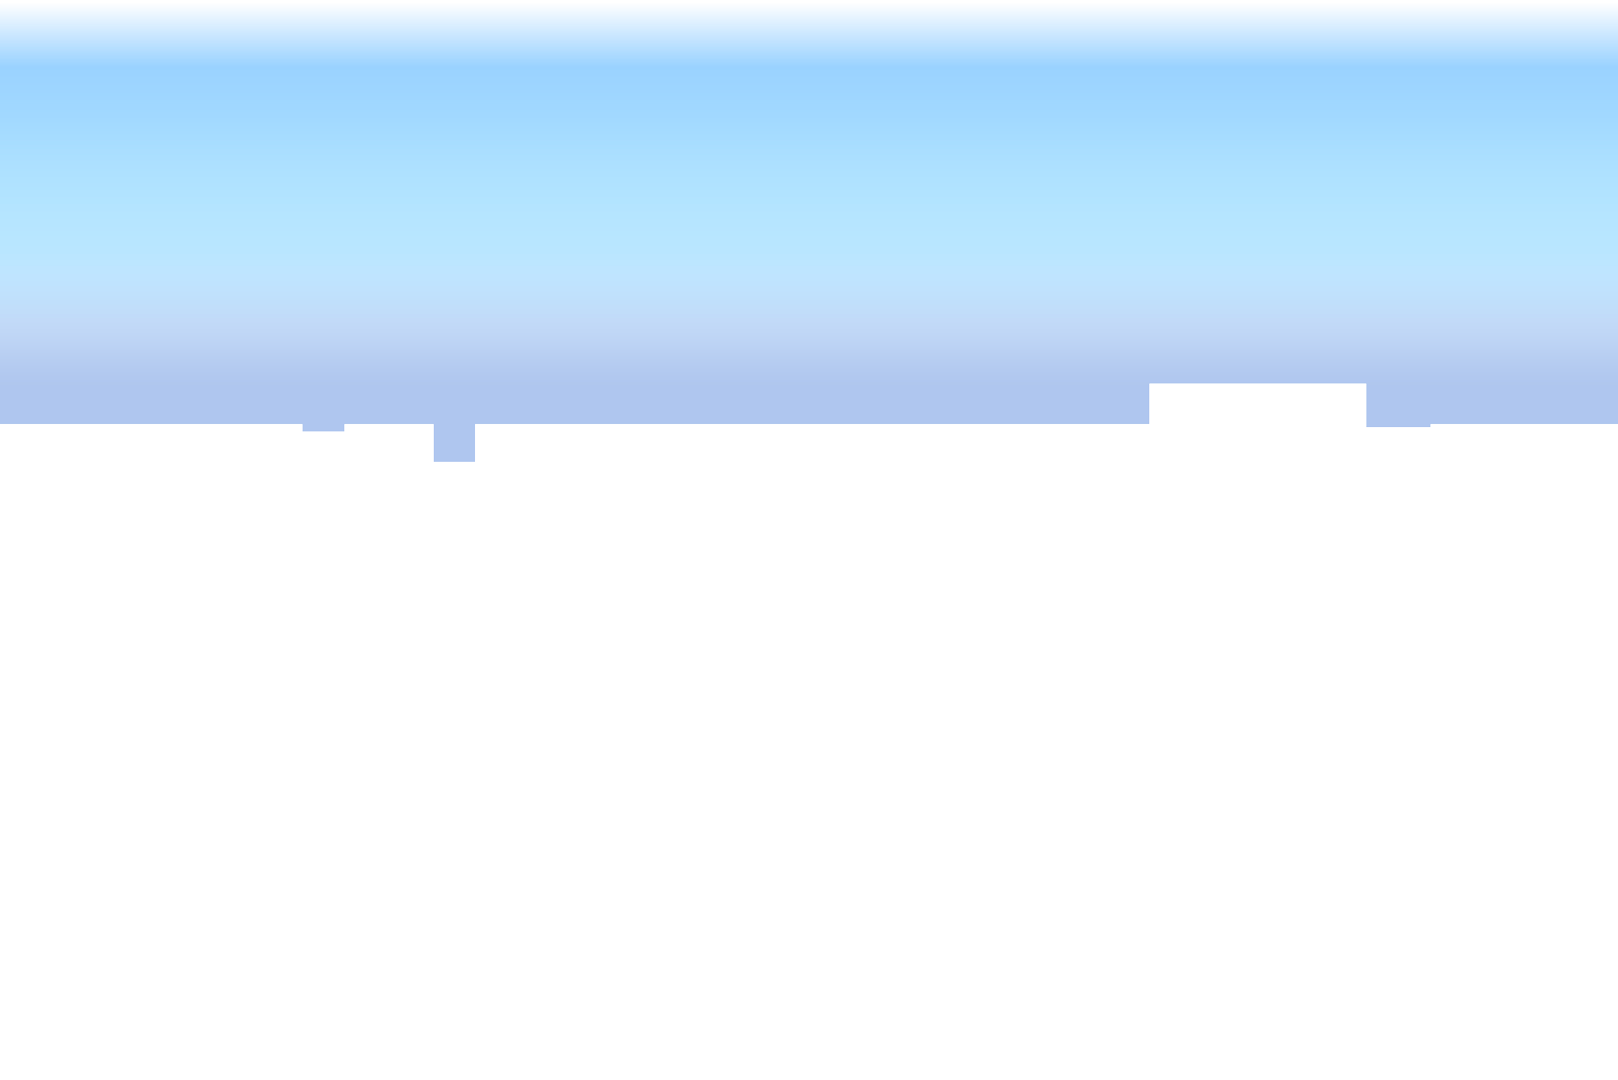
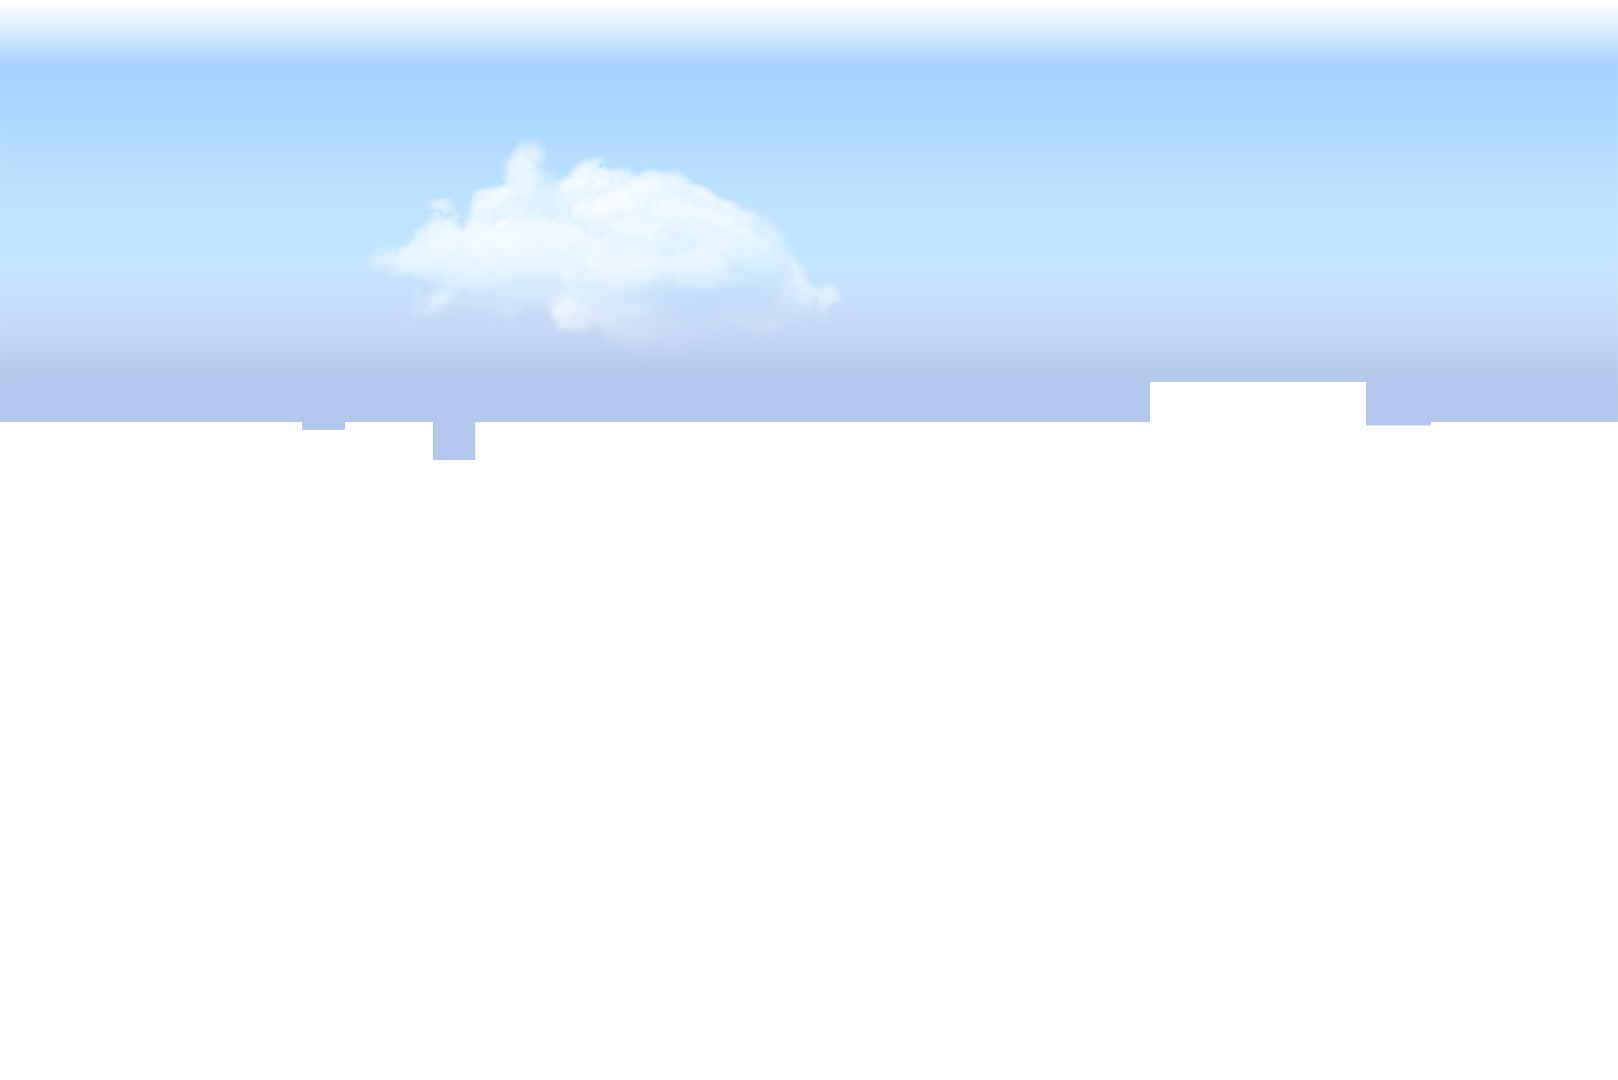
Minor tweeks to make the effect look good

Changed region(s): [[0.2163, 0.1222, 0.5253, 0.3056]]

diff --git a/lib/atropos.min.js b/lib/atropos.min.js
@@ -1,0 +1,14 @@
+/**
+ * Atropos 2.0.2
+ * Touch-friendly 3D parallax hover effects
+ * https://atroposjs.com
+ *
+ * Copyright 2021-2023 
+ *
+ * Released under the MIT License
+ *
+ * Released on: July 4, 2023
+ */
+
+var Atropos=function(){"use strict";function t(){return t=Object.assign?Object.assign.bind():function(t){for(var e=1;e<arguments.length;e++){var o=arguments[e];for(var a in o)Object.prototype.hasOwnProperty.call(o,a)&&(t[a]=o[a])}return t},t.apply(this,arguments)}var e=function(t,e){return t.querySelector(e)},o=function(t){void 0===t&&(t={});var e={};return Object.keys(t).forEach((function(o){void 0!==t[o]&&(e[o]=t[o])})),e},a={alwaysActive:!1,activeOffset:50,shadowOffset:50,shadowScale:1,duration:300,rotate:!0,rotateTouch:!0,rotateXMax:15,rotateYMax:15,rotateXInvert:!1,rotateYInvert:!1,stretchX:0,stretchY:0,stretchZ:0,commonOrigin:!0,shadow:!0,highlight:!0};return function(n){void 0===n&&(n={});var r,i,s,c,p,u,l,d,f,v,h,m,y=n,g=y.el,M=y.eventsEl,x=n.isComponent,O={__atropos__:!0,params:t({},a,{onEnter:null,onLeave:null,onRotate:null},o(n||{})),destroyed:!1,isActive:!1},w=O.params,b=[];!function t(){m=requestAnimationFrame((function(){b.forEach((function(t){if("function"==typeof t)t();else{var e=t.element,o=t.prop,a=t.value;e.style[o]=a}})),b.splice(0,b.length),t()}))}();var X,Y=function(t,e){b.push({element:t,prop:"transitionDuration",value:e})},_=function(t,e){b.push({element:t,prop:"transitionTimingFunction",value:e})},L=function(t,e){b.push({element:t,prop:"transform",value:e})},T=function(t,e){b.push({element:t,prop:"opacity",value:e})},A=function(t,e,o,a){return t.addEventListener(e,o,a)},E=function(t,e,o,a){return t.removeEventListener(e,o,a)},R=function(t){var e=t.rotateXPercentage,o=void 0===e?0:e,a=t.rotateYPercentage,n=void 0===a?0:a,i=t.duration,s=t.opacityOnly,c=t.easeOut;(function(t,e){return t.querySelectorAll(e)})(r,"[data-atropos-offset], [data-atropos-opacity]").forEach((function(t){Y(t,i),_(t,c?"ease-out":"");var e=function(t){if(t.dataset.atroposOpacity&&"string"==typeof t.dataset.atroposOpacity)return t.dataset.atroposOpacity.split(";").map((function(t){return parseFloat(t)}))}(t);if(0===o&&0===n)s||L(t,"translate3d(0, 0, 0)"),e&&T(t,e[0]);else{var a=parseFloat(t.dataset.atroposOffset)/100;if(Number.isNaN(a)||s||L(t,"translate3d("+-n*-a+"%, "+o*-a+"%, 0)"),e){var r=e[0],p=e[1],u=Math.max(Math.abs(o),Math.abs(n));T(t,r+(p-r)*u/100)}}}))},I=function(t,e){var o=g!==M;if(p||(p=g.getBoundingClientRect()),o&&!u&&(u=M.getBoundingClientRect()),void 0===t&&void 0===e){var a=o?u:p;t=a.left+a.width/2,e=a.top+a.height/2}var n,r=0,s=0,c=p,l=c.top,f=c.left,v=c.width,h=c.height;if(o){var m=u,y=m.top,x=m.left,O=m.width,X=m.height,A=v/2+(f-x),E=h/2+(l-y),I=t-x,P=e-y;s=w.rotateYMax*(I-A)/(O-v/2)*-1,r=w.rotateXMax*(P-E)/(X-h/2),n=t-f+"px "+(e-l)+"px"}else{var j=v/2,C=h/2,D=t-f,F=e-l;s=w.rotateYMax*(D-j)/(v/2)*-1,r=w.rotateXMax*(F-C)/(h/2)}r=Math.min(Math.max(-r,-w.rotateXMax),w.rotateXMax),w.rotateXInvert&&(r=-r),s=Math.min(Math.max(-s,-w.rotateYMax),w.rotateYMax),w.rotateYInvert&&(s=-s);var N,S,k=r/w.rotateXMax*100,q=s/w.rotateYMax*100,B=(o?q/100*w.stretchX:0)*(w.rotateYInvert?-1:1),Z=(o?k/100*w.stretchY:0)*(w.rotateXInvert?-1:1),z=o?Math.max(Math.abs(k),Math.abs(q))/100*w.stretchZ:0;L(i,"translate3d("+B+"%, "+-Z+"%, "+-z+"px) rotateX("+r+"deg) rotateY("+s+"deg)"),n&&w.commonOrigin&&(N=i,S=n,b.push({element:N,prop:"transformOrigin",value:S})),d&&(Y(d,w.duration+"ms"),_(d,"ease-out"),L(d,"translate3d("+.25*-q+"%, "+.25*k+"%, 0)"),T(d,Math.max(Math.abs(k),Math.abs(q))/100)),R({rotateXPercentage:k,rotateYPercentage:q,duration:w.duration+"ms",easeOut:!0}),"function"==typeof w.onRotate&&w.onRotate(r,s)},P=function(){b.push((function(){return g.classList.add("atropos-active")})),Y(i,w.duration+"ms"),_(i,"ease-out"),L(s,"translate3d(0,0, "+w.activeOffset+"px)"),Y(s,w.duration+"ms"),_(s,"ease-out"),l&&(Y(l,w.duration+"ms"),_(l,"ease-out")),O.isActive=!0},j=function(t){if(f=void 0,!("pointerdown"===t.type&&"mouse"===t.pointerType||"pointerenter"===t.type&&"mouse"!==t.pointerType)){if("pointerdown"===t.type&&t.preventDefault(),v=t.clientX,h=t.clientY,w.alwaysActive)return p=void 0,void(u=void 0);P(),"function"==typeof w.onEnter&&w.onEnter()}},C=function(t){!1===f&&t.cancelable&&t.preventDefault()},D=function(t){if(w.rotate&&O.isActive){if("mouse"!==t.pointerType){if(!w.rotateTouch)return;t.preventDefault()}var e=t.clientX,o=t.clientY,a=e-v,n=o-h;if("string"==typeof w.rotateTouch&&(0!==a||0!==n)&&void 0===f){if(a*a+n*n>=25){var r=180*Math.atan2(Math.abs(n),Math.abs(a))/Math.PI;f="scroll-y"===w.rotateTouch?r>45:90-r>45}!1===f&&(g.classList.add("atropos-rotate-touch"),t.cancelable&&t.preventDefault())}"mouse"!==t.pointerType&&f||I(e,o)}},F=function(t){if(p=void 0,u=void 0,O.isActive&&!(t&&"pointerup"===t.type&&"mouse"===t.pointerType||t&&"pointerleave"===t.type&&"mouse"!==t.pointerType)){if("string"==typeof w.rotateTouch&&f&&g.classList.remove("atropos-rotate-touch"),w.alwaysActive)return I(),"function"==typeof w.onRotate&&w.onRotate(0,0),void("function"==typeof w.onLeave&&w.onLeave());b.push((function(){return g.classList.remove("atropos-active")})),Y(s,w.duration+"ms"),_(s,""),L(s,"translate3d(0,0, 0px)"),l&&(Y(l,w.duration+"ms"),_(l,"")),d&&(Y(d,w.duration+"ms"),_(d,""),L(d,"translate3d(0, 0, 0)"),T(d,0)),Y(i,w.duration+"ms"),_(i,""),L(i,"translate3d(0,0,0) rotateX(0deg) rotateY(0deg)"),R({duration:w.duration+"ms"}),O.isActive=!1,"function"==typeof w.onRotate&&w.onRotate(0,0),"function"==typeof w.onLeave&&w.onLeave()}},N=function(t){var e=t.target;!M.contains(e)&&e!==M&&O.isActive&&F()};return O.destroy=function(){O.destroyed=!0,cancelAnimationFrame(m),E(document,"click",N),E(M,"pointerdown",j),E(M,"pointerenter",j),E(M,"pointermove",D),E(M,"touchmove",C),E(M,"pointerleave",F),E(M,"pointerup",F),E(M,"lostpointercapture",F),delete g.__atropos__},"string"==typeof g&&(g=e(document,g)),g&&(g.__atropos__||(void 0!==M?"string"==typeof M&&(M=e(document,M)):M=g,r=x?g.parentNode.host:g,Object.assign(O,{el:g}),i=e(g,".atropos-rotate"),s=e(g,".atropos-scale"),c=e(g,".atropos-inner"),g.__atropos__=O)),g&&M&&(w.shadow&&((l=e(g,".atropos-shadow"))||((l=document.createElement("span")).classList.add("atropos-shadow"),X=!0),L(l,"translate3d(0,0,-"+w.shadowOffset+"px) scale("+w.shadowScale+")"),X&&i.appendChild(l)),w.highlight&&function(){var t;(d=e(g,".atropos-highlight"))||((d=document.createElement("span")).classList.add("atropos-highlight"),t=!0),L(d,"translate3d(0,0,0)"),t&&c.appendChild(d)}(),w.rotateTouch&&("string"==typeof w.rotateTouch?g.classList.add("atropos-rotate-touch-"+w.rotateTouch):g.classList.add("atropos-rotate-touch")),e(r,"[data-atropos-opacity]")&&R({opacityOnly:!0}),A(document,"click",N),A(M,"pointerdown",j),A(M,"pointerenter",j),A(M,"pointermove",D),A(M,"touchmove",C),A(M,"pointerleave",F),A(M,"pointerup",F),A(M,"lostpointercapture",F),w.alwaysActive&&(P(),I())),O}}();
+//# sourceMappingURL=atropos.min.js.map

diff --git a/lib/atropos.css b/lib/atropos.css
@@ -1,0 +1,98 @@
+/**
+ * Atropos 2.0.2
+ * Touch-friendly 3D parallax hover effects
+ * https://atroposjs.com
+ *
+ * Copyright 2021-2023 
+ *
+ * Released under the MIT License
+ *
+ * Released on: July 4, 2023
+ */
+
+.atropos {
+  position: relative;
+  display: block;
+  perspective: 1200px;
+  transform: translate3d(0, 0, 0);
+}
+.atropos-rotate-touch,
+.atropos-rotate-scroll-x,
+.atropos-rotate-scroll-y {
+  -webkit-tap-highlight-color: rgba(0, 0, 0, 0);
+  -webkit-touch-callout: none;
+  -webkit-user-select: none;
+     -moz-user-select: none;
+          user-select: none;
+}
+.atropos-rotate-touch-scroll-y {
+  touch-action: pan-y;
+}
+.atropos-rotate-touch-scroll-x {
+  touch-action: pan-x;
+}
+.atropos-rotate-touch {
+  touch-action: none;
+}
+.atropos-scale,
+.atropos-rotate {
+  width: 100%;
+  height: 100%;
+  transform-style: preserve-3d;
+  transition-property: transform;
+  display: block;
+}
+.atropos-shadow,
+.atropos-highlight {
+  position: absolute;
+  pointer-events: none;
+  transition-property: transform, opacity;
+  display: block;
+  opacity: 0;
+}
+.atropos-shadow {
+  z-index: -1;
+  background: #000;
+  left: 0;
+  top: 0;
+  width: 100%;
+  height: 100%;
+  filter: blur(30px);
+}
+.atropos-highlight {
+  left: -50%;
+  top: -50%;
+  width: 200%;
+  height: 200%;
+  background-image: radial-gradient(circle at 50%, rgba(255, 255, 255, 0.25), transparent 50%);
+  z-index: 0;
+}
+.atropos-rotate {
+  position: relative;
+}
+.atropos-inner {
+  width: 100%;
+  height: 100%;
+  position: relative;
+  overflow: hidden;
+  transform-style: preserve-3d;
+  transform: translate3d(0, 0, 0);
+  display: block;
+}
+.atropos-active {
+  z-index: 1;
+}
+.atropos-active .atropos-shadow {
+  opacity: 1 !important;
+}
+[data-atropos-offset],
+::slotted([data-atropos-offset]) {
+  transition-property: transform;
+}
+[data-atropos-opacity] {
+  transition-property: opacity;
+}
+[data-atropos-offset][data-atropos-opacity],
+::slotted([data-atropos-offset][data-atropos-opacity]) {
+  transition-property: transform, opacity;
+}

diff --git a/parallax.html b/parallax.html
@@ -49,7 +49,7 @@
             white-space: nowrap;
         }
         .atropos-inner {
-            background-image: url("PaintedLadies.jpg");
+            background-image: url("full.jpg");
             background-size: contain;
             height: 540px;
             width: 809px;
@@ -76,7 +76,7 @@
       <!-- inner container (required) -->
       <div class="atropos-inner">
         <!-- put your custom content here -->
-        <img src="PaintedLadies_layer0.png" style="position: absolute;" data-atropos-offset="-6" />
+        <img src="cloud.png" style="position: absolute;opacity:0.5;" data-atropos-offset="-20" />
         <img src="PaintedLadies_layer1.png" style="position: absolute;" data-atropos-offset="-3" />
         <img src="PaintedLadies_layer2.png" style="position: absolute;" data-atropos-offset="0" />
         <img src="PaintedLadies_layer3.png" style="position: absolute;" data-atropos-offset="3" />
